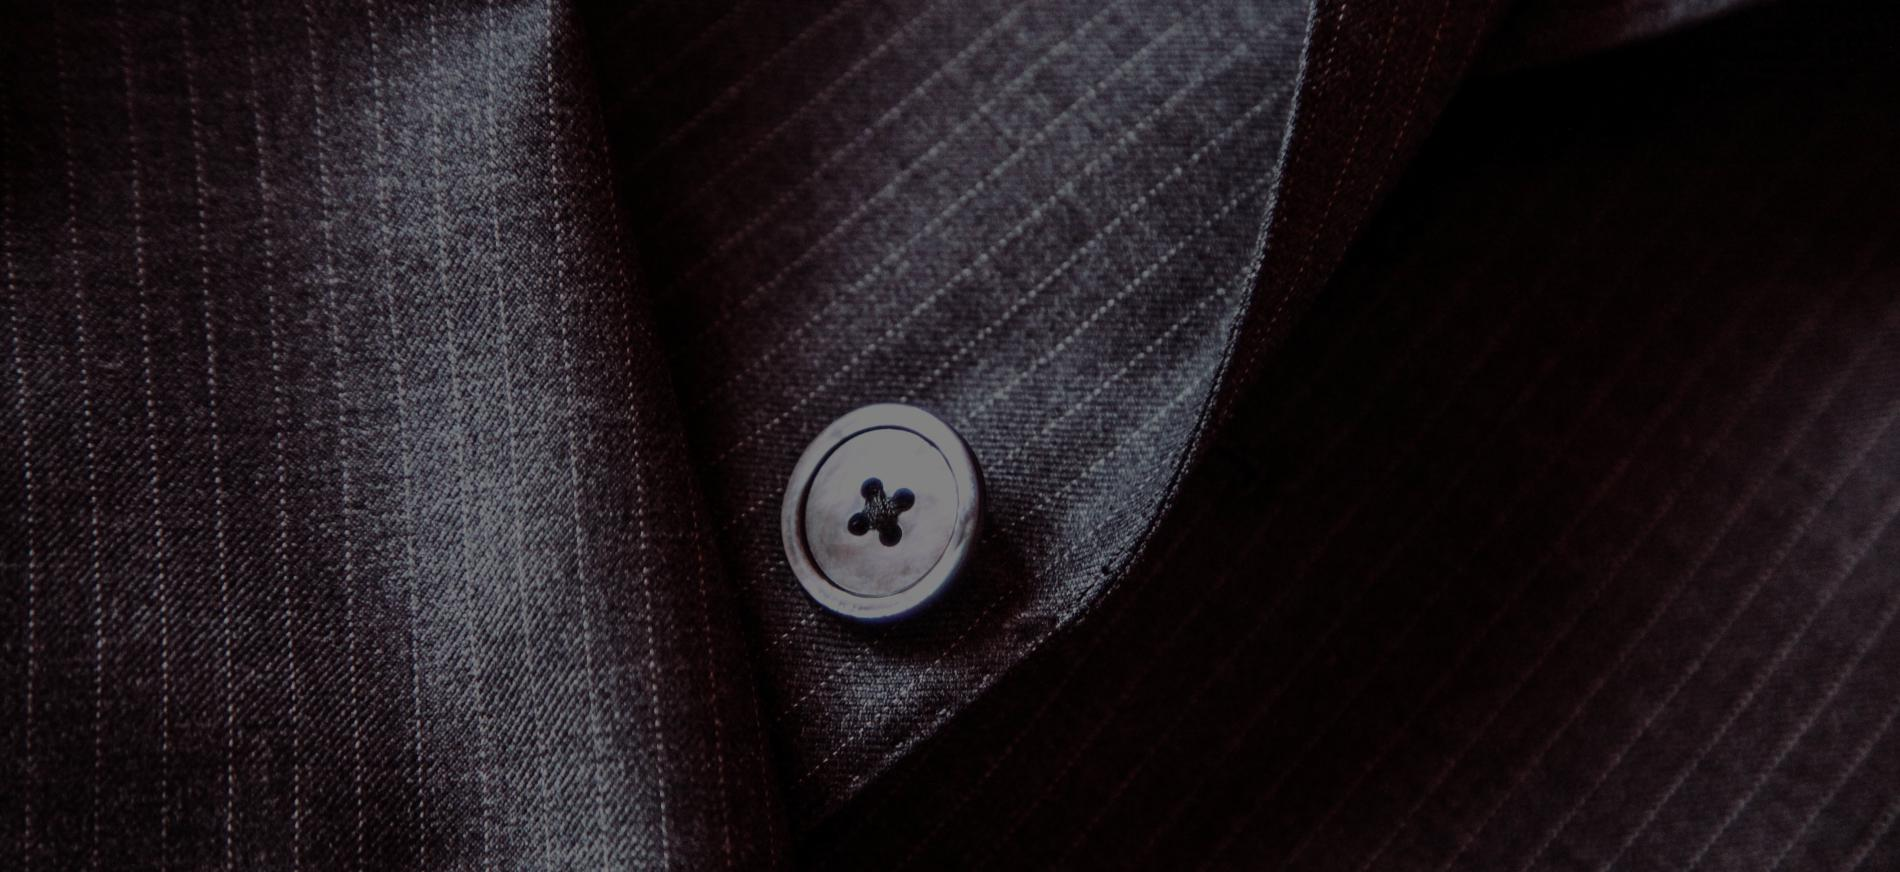
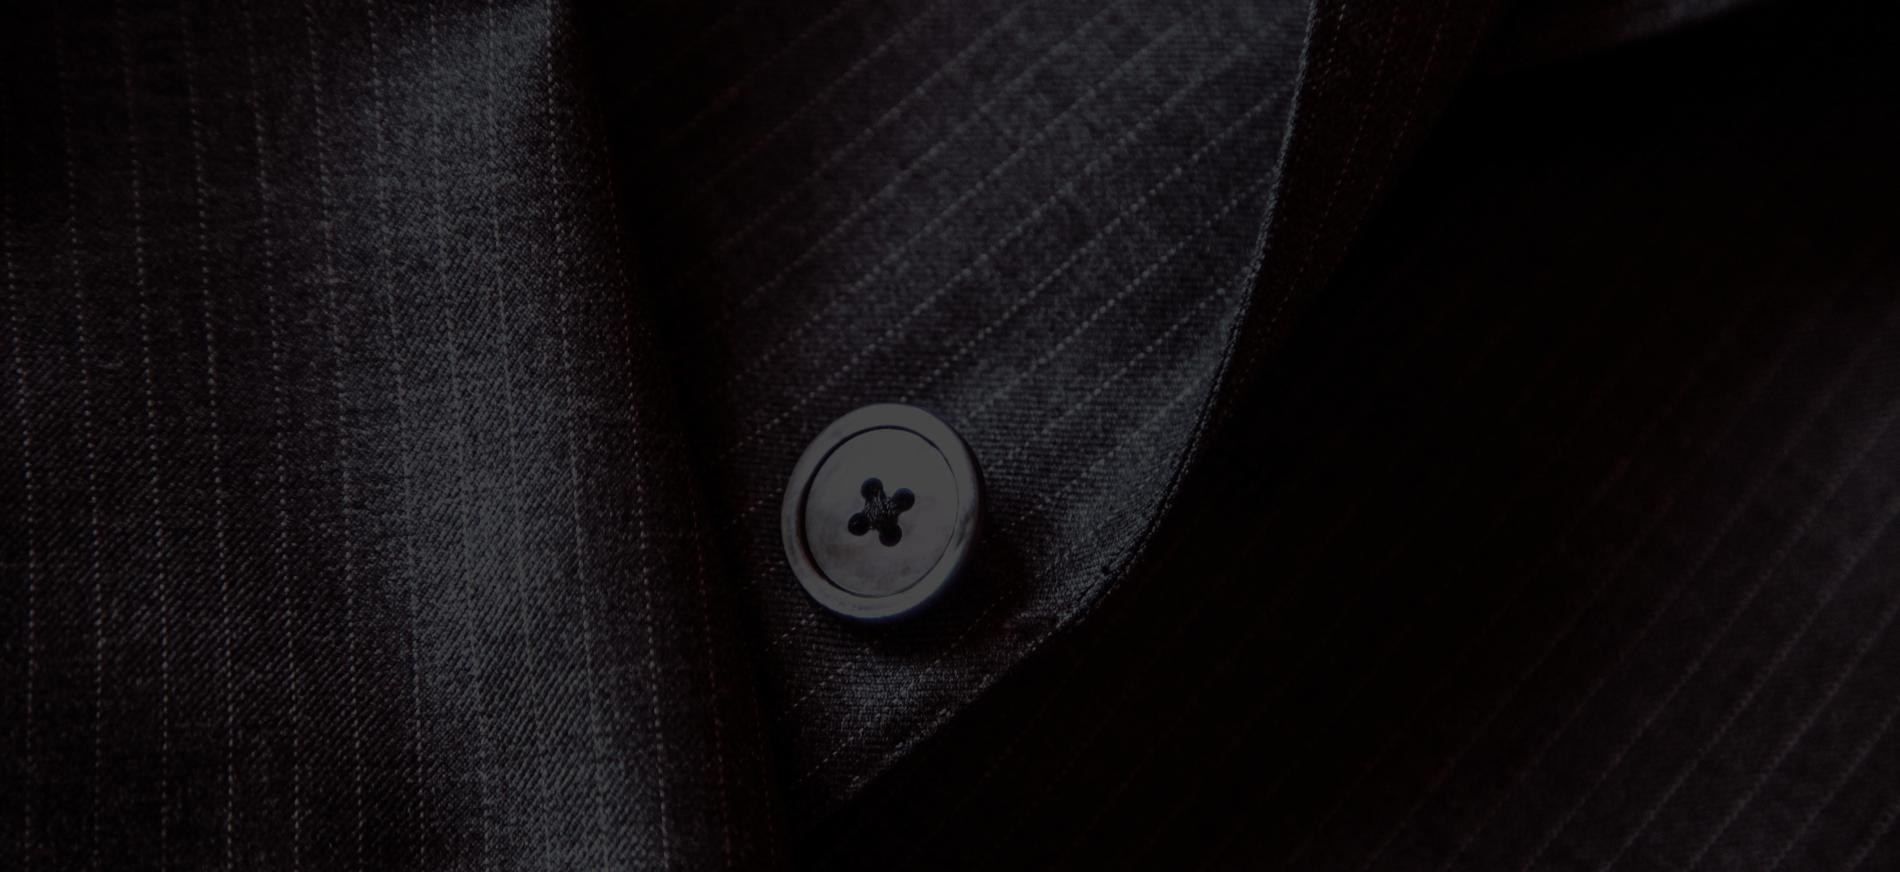
made image darker and added for content

diff --git a/_posts/2015/2015-01-31-first-impressions.md b/_posts/2015/2015-01-31-first-impressions.md
@@ -1,6 +1,6 @@
 ---
 title: "The First Impression To Your Open Source Project"
-subTitle: "Having a well written and understandable README is the key to making sure you grab the attention of the curious and keep the skeptical reading."
+subTitle: "Having a well written and understandable README file is the key to making sure you grab the attention of the curious and keep the skeptical reading."
 headerBg: "/img/button-fashion.jpg"
 date: 2015-01-31 -1100
 author: "Michael Tyson"
@@ -12,7 +12,15 @@ layout: post
 ### First Impressions
 If your childhood was anything like mine, you probably heard your mother say more than once, "You never get a second chance to make a first impression."  This, of course, was ultimately followed by a rolling of the eyes or anything that constituted a complete distaste for an obvious statement under the guise of being profound. Like all good things from your youth, this naivety will eventually come to an end and at some point in your adult life you will most definitely acknowledge the wisdom in that statement.
 
-If you plan on starting an open source software project, you'll want to remember this advice. Just like combing your hair and brushing your teeth are good practice, having a well written and understandable README is the key to making sure you grab the attention of the curious and keep the skeptical reading.
+If you plan on starting an open source software project, you'll want to remember this advice. Just like combing your hair and brushing your teeth are good practice, having a well written and understandable README file is the key to making sure you grab the attention of the curious and keep the skeptical reading.
 
 ### My Problem
-I recently started a project called, [Muse](http:github.com/myty/muse).  In my excitement for what I had just accomplished, I hastily told everyone to go check it out.  Then I realized a big problem...my README was lacking **actual** content.  Besides having a title, a short description, and an AppVeyour build badge, I had..nothing...nada...zilch.
+I recently started a project called, [Muse](http:github.com/myty/muse).  In my excitement for what I had just accomplished, I hastily told everyone to go check it out.  Then I realized a big problem...my README was lacking **actual** content.  Besides having a title, a short description, and an AppVeyour build badge, I had..nothing...nada...zilch. Any seasoned developer knows the sinking feeling that you get when you realize you just released bad code out into the wild...and there's no take backs.
+
+I can hear people saying, "It's just an introduction file, how bad could it be?" Keep in mind this was supposed to be my big hurahrah, my moment to shine...and I just bombed it.  No one that looked at my code would even know what to do with it at first glance.  To my surprise a few brave souls starred it and one even forked it. Many kudos to you for your adventure of the unknown.  
+
+### Setting the Record Straight
+I think when I started the project, I was a bit intimidated with the idea of writing something that people would read. I did eventually write that pesky file, but not before first learning the hard way. In my [first blog post](http://mytydev.com/hello-world) I confessed that I was afraid and that I would probably embarrass myself but was committed to jump in.  Little did I know I'd screw up so soon.  In an effort to help someone else out struggling with where to start in making an effective README file, here are a few tips:
+1.
+2.
+3. 
